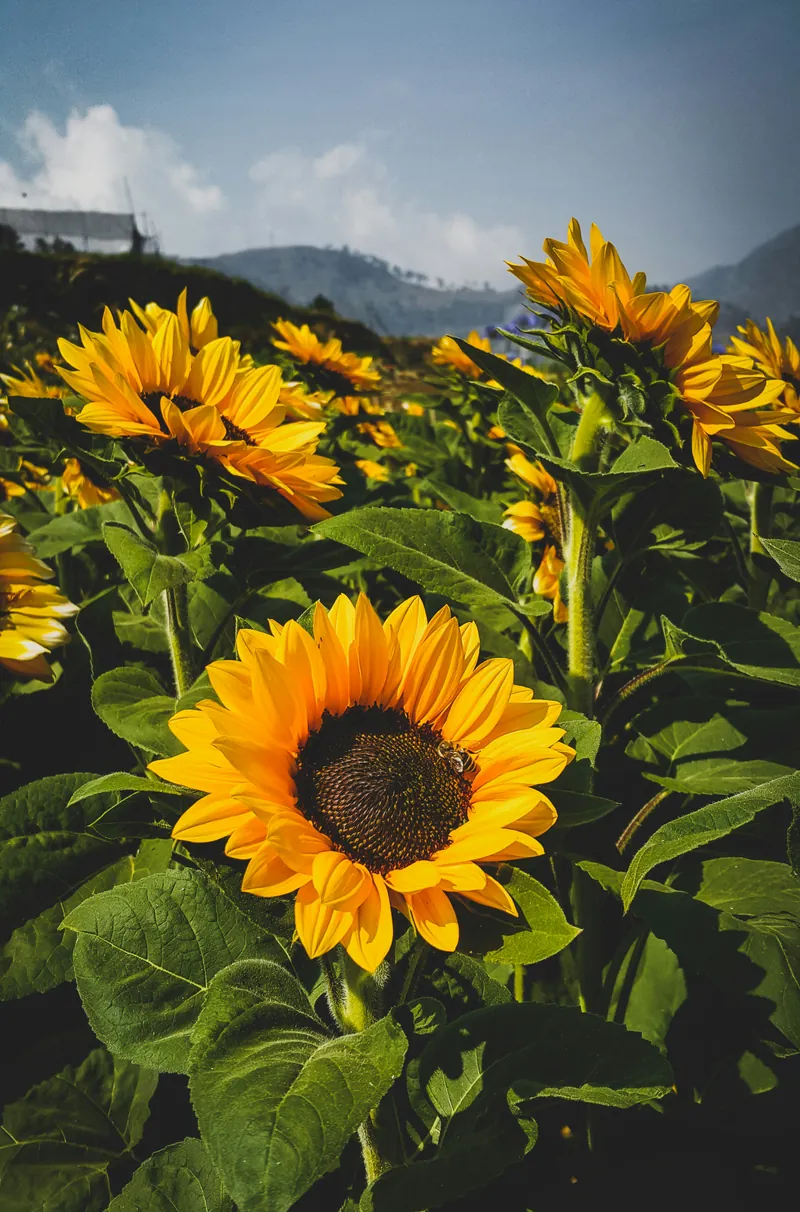
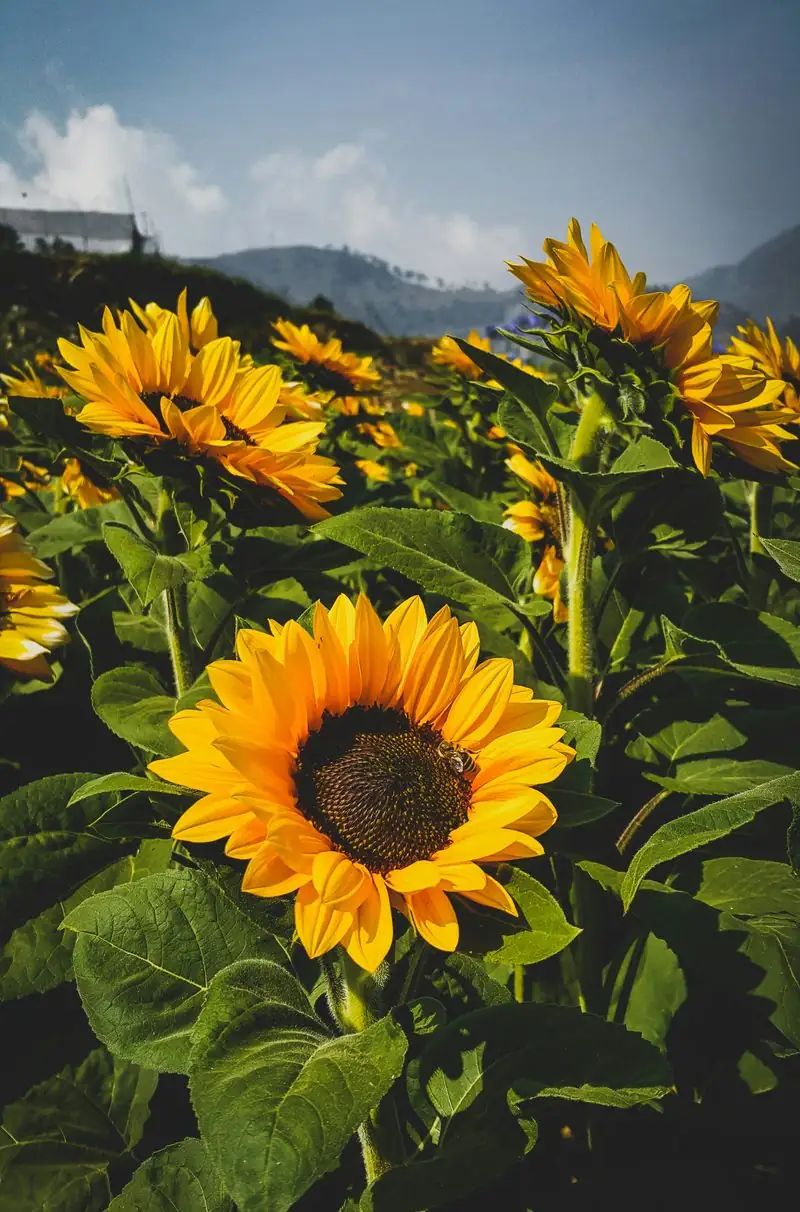
Images: phones get smaller files; recompress the heaviest
Width-described srcsets for the letter, hands and sunflowers pictures; a 1280-px letter and hands; together and sunflowers re-encoded. Originals kept in project/originals.

diff --git a/index.html b/index.html
@@ -700,7 +700,7 @@ footer .fcredit{max-width:none; font-size:1.125rem}
     <figure class="hero-photo">
       <picture>
         <source srcset="images/farah-portrait.webp" type="image/webp">
-        <img src="images/farah-portrait.jpg" alt="Farah Tanis" width="800" height="1000" fetchpriority="high" decoding="async">
+        <img src="images/farah-portrait.jpg" alt="Farah Tanis, founder of Restore Forward" width="800" height="1000" fetchpriority="high" decoding="async">
       </picture>
     </figure>
   </div>
@@ -713,7 +713,7 @@ footer .fcredit{max-width:none; font-size:1.125rem}
     <div>
       <figure class="story-photo px">
         <picture>
-          <source srcset="images/sunflowers.webp" type="image/webp">
+          <source srcset="images/sunflowers-480.webp 480w, images/sunflowers.webp 800w" sizes="(max-width:900px) min(60vw, 14rem), 17rem" type="image/webp">
           <img src="images/sunflowers.jpg" alt="" width="800" height="1212" loading="lazy" decoding="async">
         </picture>
       </figure>
@@ -747,7 +747,7 @@ footer .fcredit{max-width:none; font-size:1.125rem}
 
 <figure class="rv photo-band px">
   <picture>
-    <source srcset="images/hands.webp" type="image/webp">
+    <source srcset="images/hands-960.webp 960w, images/hands-1280.webp 1280w, images/hands.webp 1920w" sizes="100vw" type="image/webp">
     <img src="images/hands.jpg" alt="" width="1920" height="960" loading="lazy" decoding="async">
   </picture>
   <div class="photo-cta"><a class="btn btn-lg" href="#book">Book a consultation</a></div>
@@ -848,7 +848,7 @@ footer .fcredit{max-width:none; font-size:1.125rem}
 
 <section class="rv band band-photo px" id="letter" aria-labelledby="letter-title">
   <picture>
-    <source srcset="images/letter.webp" type="image/webp">
+    <source srcset="images/letter-960.webp 960w, images/letter-1280.webp 1280w, images/letter.webp 1920w" sizes="100vw" type="image/webp">
     <img src="images/letter.jpg" alt="" width="1920" height="960" loading="lazy" decoding="async">
   </picture>
   <h2 class="title title-mixed" id="letter-title">You were never meant to heal alone</h2>

diff --git a/about.html b/about.html
@@ -768,7 +768,7 @@ footer .fcredit{max-width:none; font-size:1.125rem}
 
 <section class="rv band band-photo px" id="truth" aria-labelledby="truth-title">
   <picture>
-    <source srcset="images/letter.webp" type="image/webp">
+    <source srcset="images/letter-960.webp 960w, images/letter-1280.webp 1280w, images/letter.webp 1920w" sizes="100vw" type="image/webp">
     <img src="images/letter.jpg" alt="" width="1920" height="960" loading="lazy" decoding="async">
   </picture>
   <h2 class="title title-mixed" id="truth-title">Healing begins when we tell the truth about the body</h2>
